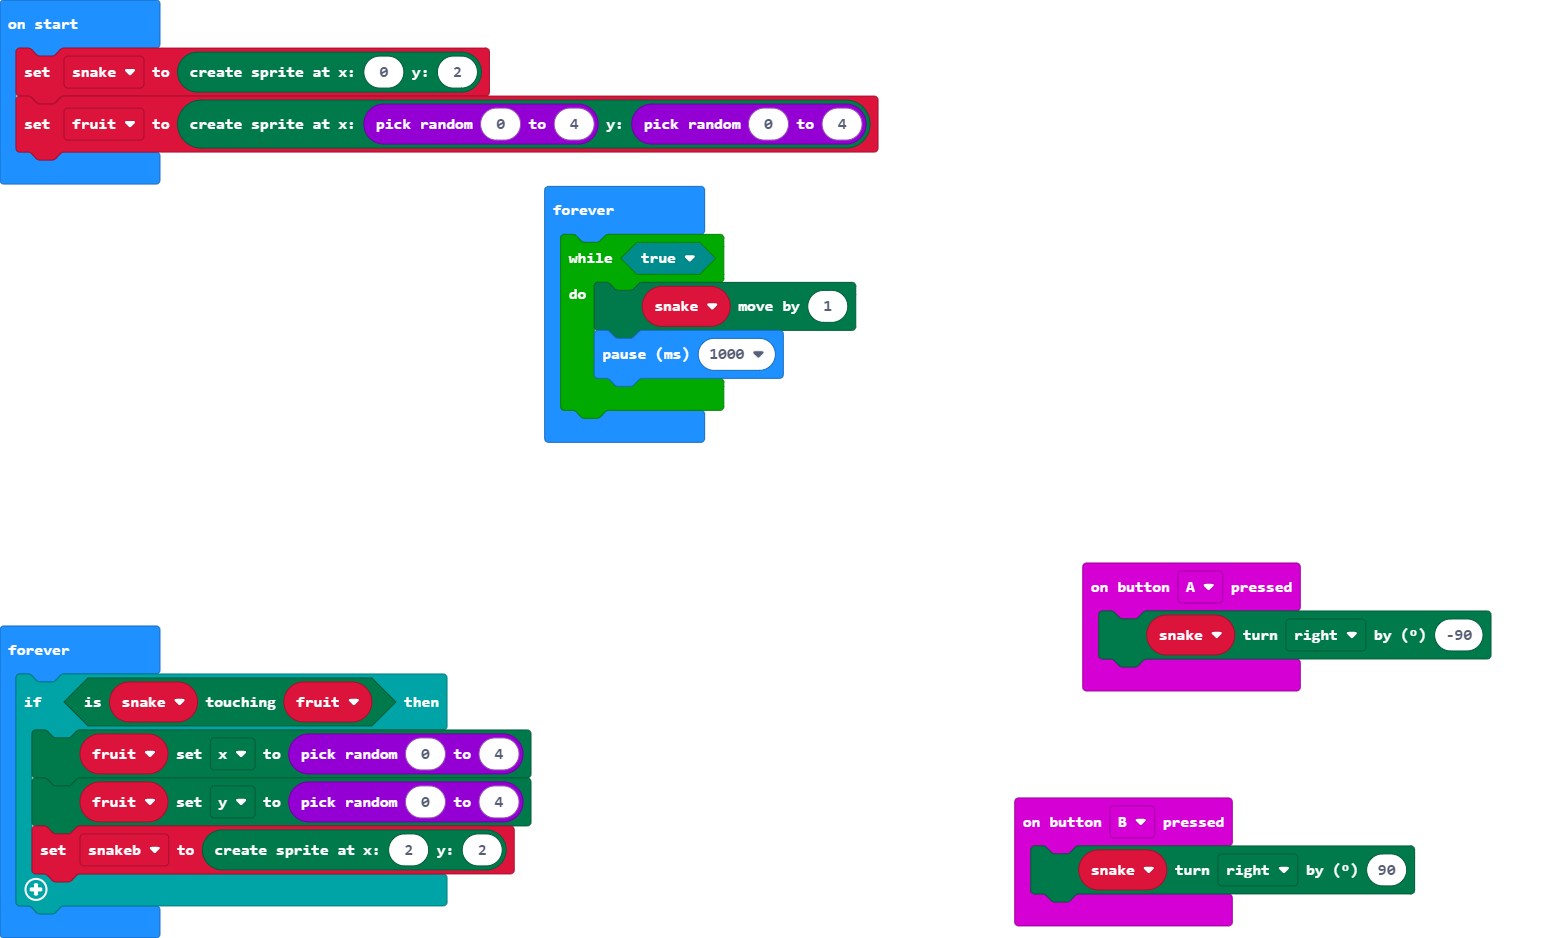
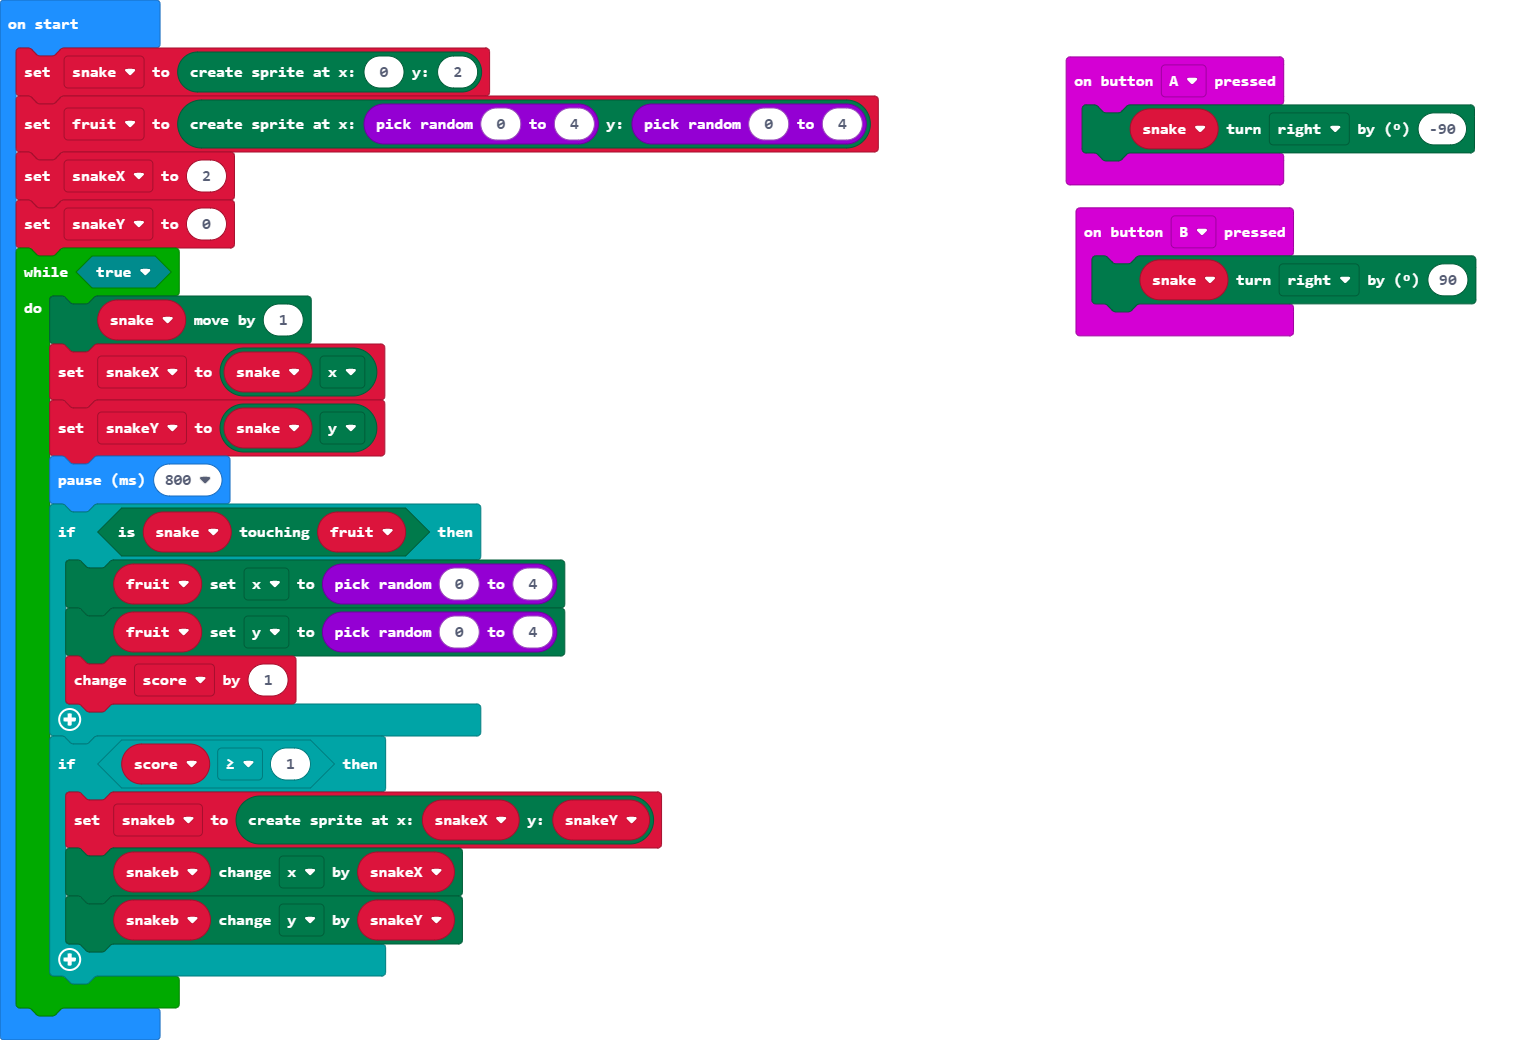
Update main.blocks, main.ts

diff --git a/main.ts b/main.ts
@@ -5,19 +5,25 @@ input.onButtonPressed(Button.B, function () {
     snake.turn(Direction.Right, 90)
 })
 let snakeb: game.LedSprite = null
+let score = 0
 let snake: game.LedSprite = null
 snake = game.createSprite(0, 2)
 let fruit = game.createSprite(randint(0, 4), randint(0, 4))
-basic.forever(function () {
-    while (true) {
-        snake.move(1)
-        basic.pause(1000)
-    }
-})
-basic.forever(function () {
+let snakeX = 2
+let snakeY = 0
+while (true) {
+    snake.move(1)
+    snakeX = snake.get(LedSpriteProperty.X)
+    snakeY = snake.get(LedSpriteProperty.Y)
+    basic.pause(800)
     if (snake.isTouching(fruit)) {
         fruit.set(LedSpriteProperty.X, randint(0, 4))
         fruit.set(LedSpriteProperty.Y, randint(0, 4))
-        snakeb = game.createSprite(2, 2)
+        score += 1
     }
-})
+    if (score >= 1) {
+        snakeb = game.createSprite(snakeX, snakeY)
+        snakeb.change(LedSpriteProperty.X, snakeX)
+        snakeb.change(LedSpriteProperty.Y, snakeY)
+    }
+}
